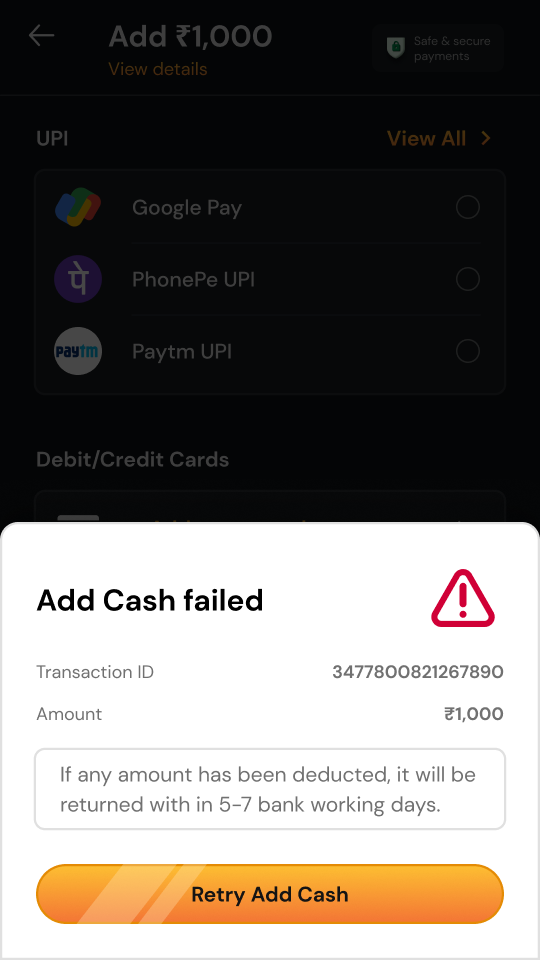
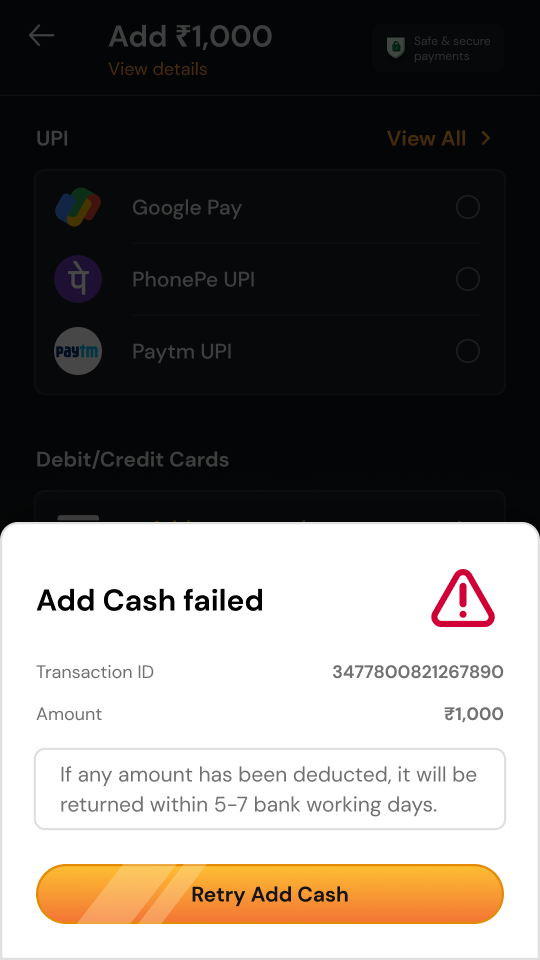
Payments: fix "with in" → "within" on the failure sheets

Changed region(s): [[0.1778, 0.7812, 0.8889, 0.875]]

diff --git a/projects/add-cash.html b/projects/add-cash.html
@@ -626,8 +626,8 @@ html:not(.js) .reveal{opacity:1;transform:none}
     </div>
     <div class="ac-wide">
       <div class="ac-strip reveal" style="--n:3;--w:220px">
-        <figure><img class="ac-shot" src="../assets/img/add-cash/failed.png?v=2" width="540" height="960" loading="lazy" decoding="async" alt="An Add Cash failed sheet with the transaction ID, amount, a note on refunds in 5–7 bank working days, and Retry Add Cash."><figcaption>Their money, first</figcaption></figure>
-        <figure><img class="ac-shot" src="../assets/img/add-cash/failed-retry.png?v=2" width="540" height="960" loading="lazy" decoding="async" alt="A failure sheet offering Retry with Google Pay or Try Another Method."><figcaption>Retry, or switch</figcaption></figure>
+        <figure><img class="ac-shot" src="../assets/img/add-cash/failed.png?v=3" width="540" height="960" loading="lazy" decoding="async" alt="An Add Cash failed sheet with the transaction ID, amount, a note on refunds in 5–7 bank working days, and Retry Add Cash."><figcaption>Their money, first</figcaption></figure>
+        <figure><img class="ac-shot" src="../assets/img/add-cash/failed-retry.png?v=3" width="540" height="960" loading="lazy" decoding="async" alt="A failure sheet offering Retry with Google Pay or Try Another Method."><figcaption>Retry, or switch</figcaption></figure>
         <figure><img class="ac-shot" src="../assets/img/add-cash/something-went-wrong.png" width="540" height="960" loading="lazy" decoding="async" alt="A Something went wrong state."><figcaption>Something went wrong</figcaption></figure>
       </div>
     </div>
